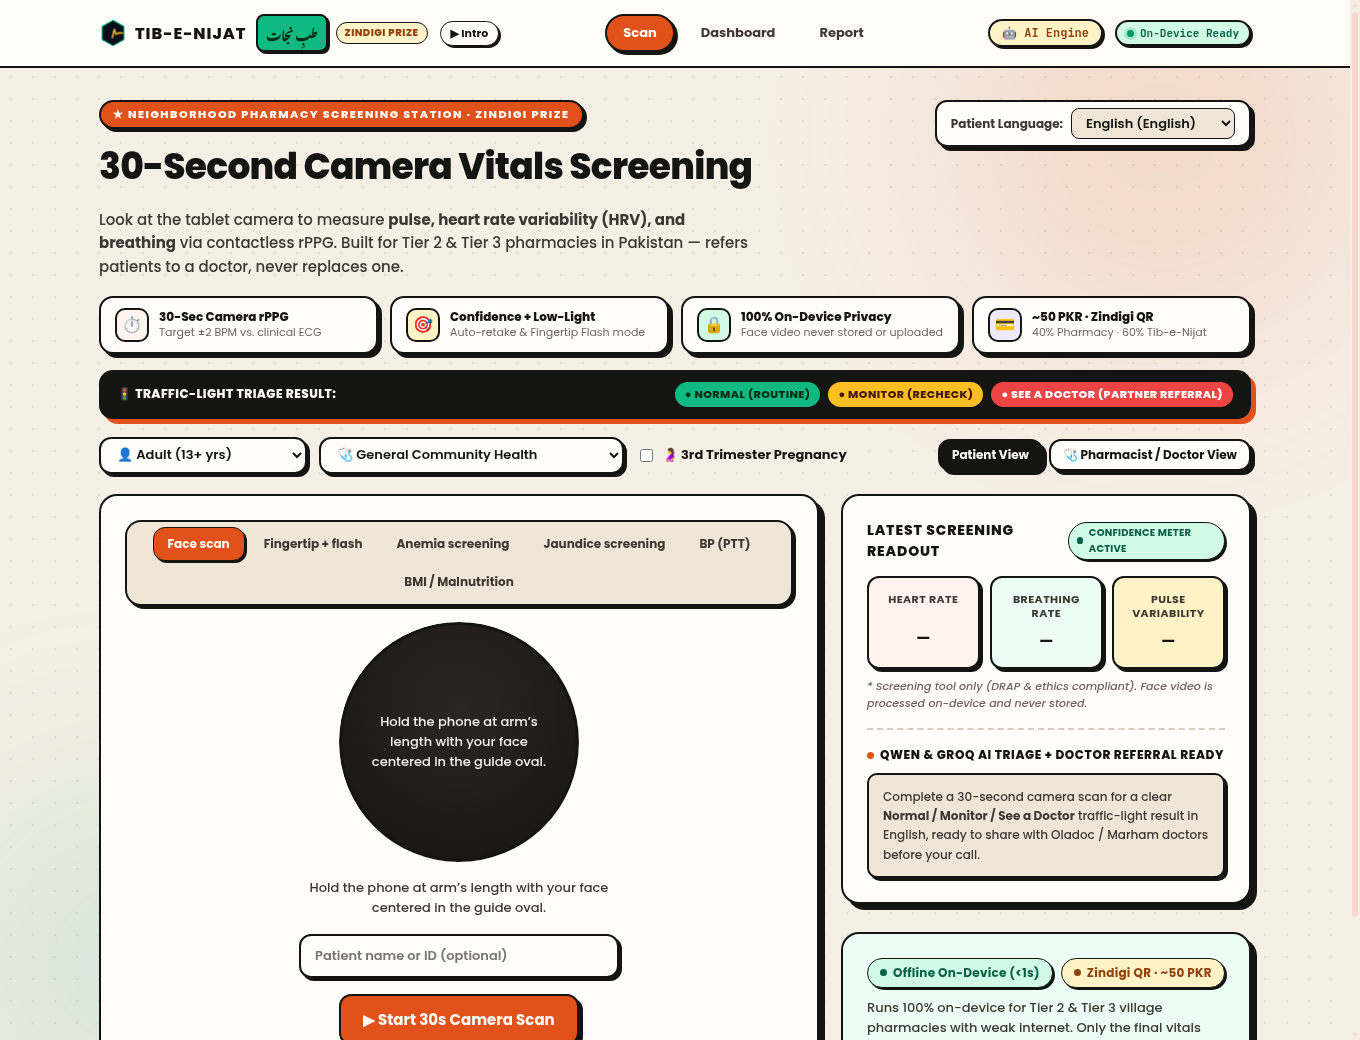
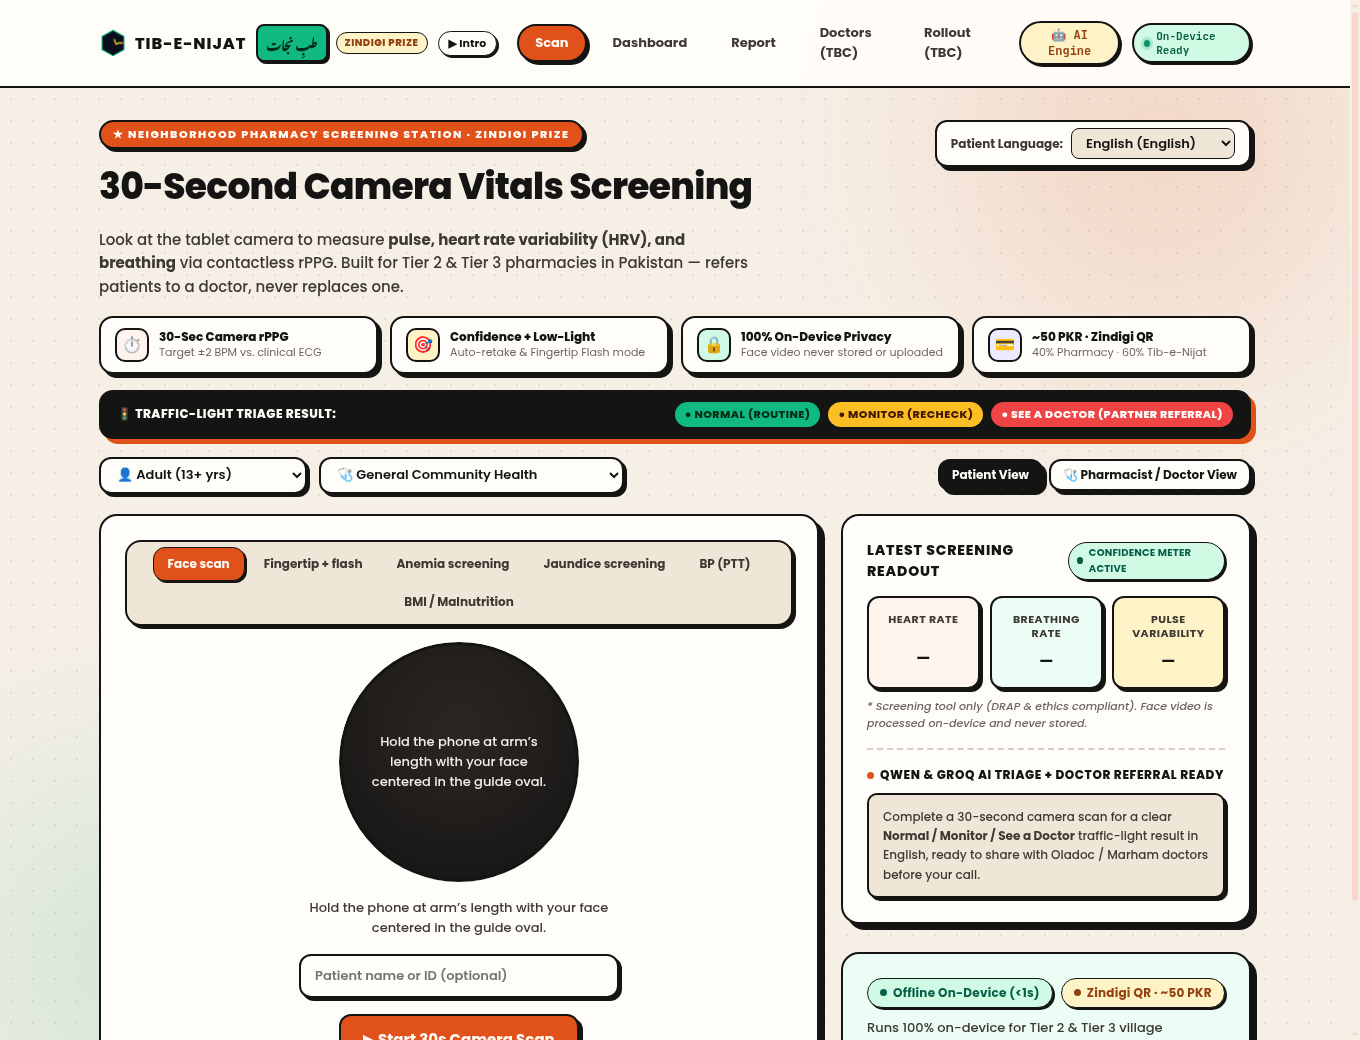
fix(scan): remove 3rd Trimester Pregnancy checkbox from ScanPage UI

Changed region(s): [[0.0, 0.0, 1.0, 1.0], [0.9882, 0.8615, 1.0, 0.8923]]

diff --git a/src/pages/ScanPage.jsx b/src/pages/ScanPage.jsx
@@ -891,16 +891,6 @@ export default function ScanPage() {
             ))}
           </select>
 
-          <label style={{ display: 'inline-flex', alignItems: 'center', gap: '6px', fontSize: '13px', fontWeight: 700, cursor: 'pointer' }}>
-            <input
-              type="checkbox"
-              checked={isPregnant}
-              onChange={(e) => setIsPregnant(e.target.checked)}
-              disabled={busy || ageGroup !== 'adult'}
-            />
-            🤰 3rd Trimester Pregnancy
-          </label>
-
           <div style={{ marginLeft: 'auto', display: 'flex', gap: '6px' }}>
             <button
               className={`btn btn--ghost ${viewMode === 'patient' ? 'active' : ''}`}
